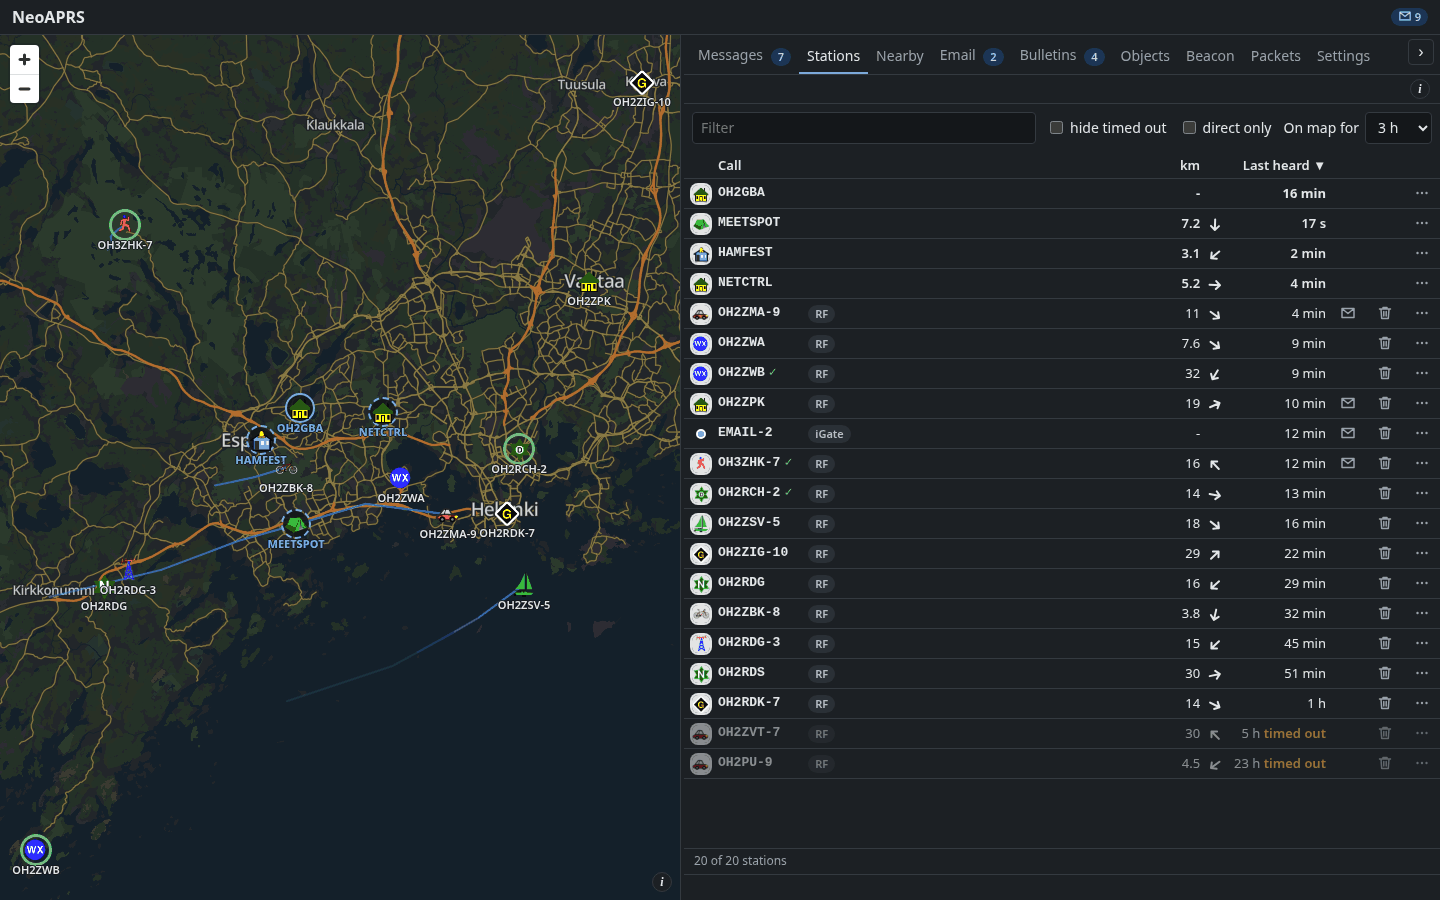
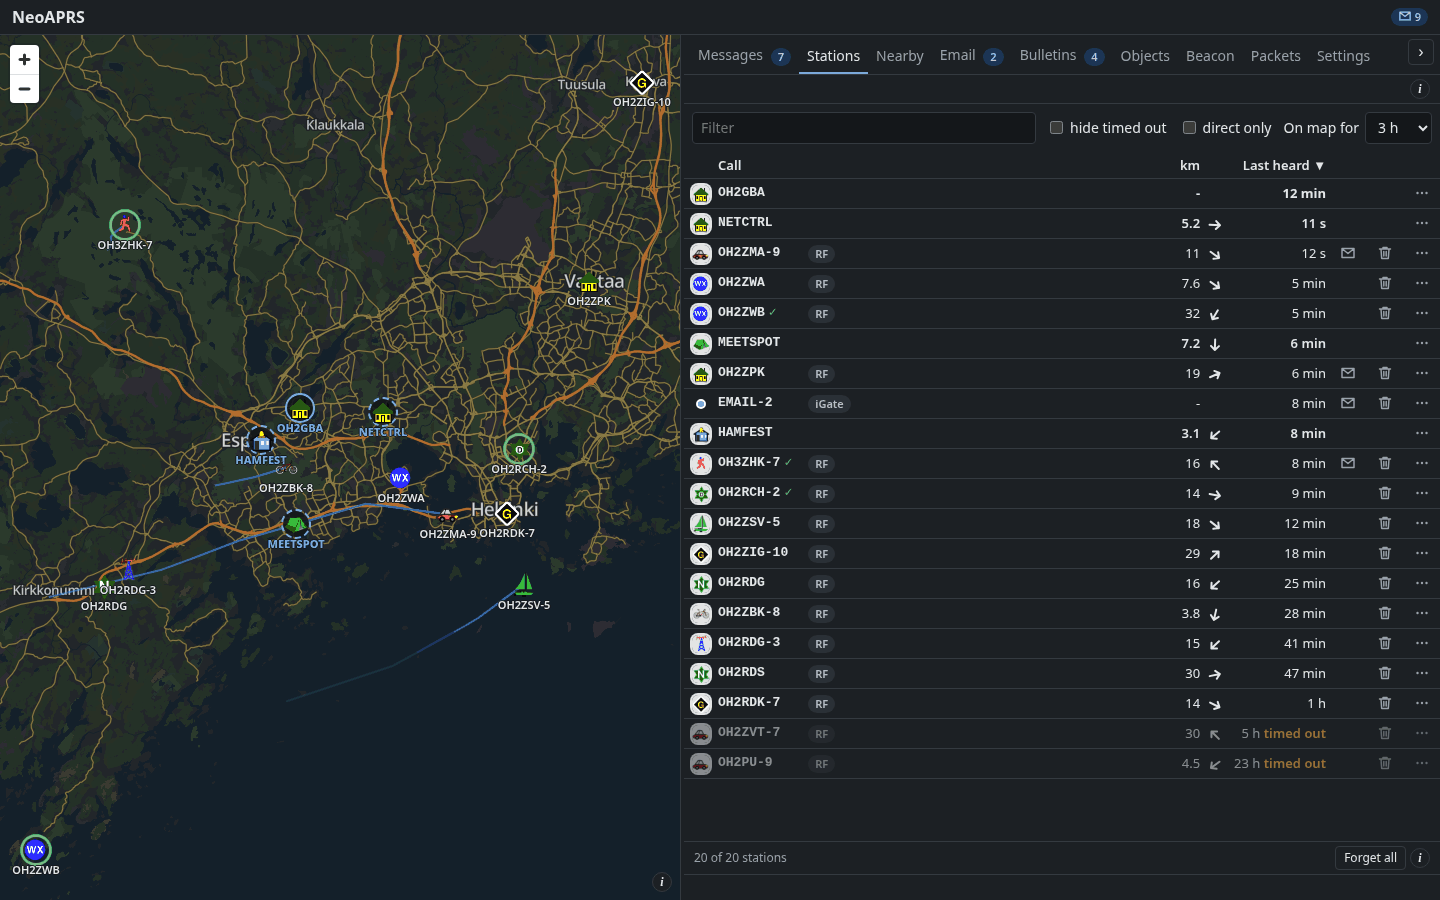
Forget all: the count has its own span, the foot wraps on a phone, the French sentences have their no-break spaces, and the screenshots with the Stations tab are retaken

diff --git a/ui/src/components/StationsTable.test.ts b/ui/src/components/StationsTable.test.ts
@@ -160,7 +160,7 @@ describe("StationsTable", () => {
       expect(toggle?.element.parentElement?.textContent).toContain("hide timed out");
       await toggle?.setValue(true);
       expect(calls(wrapper)).toEqual(["OH2GBA", "OH2FRESH"]);
-      expect(wrapper.find(".foot").text()).toBe("2 of 3 stations");
+      expect(wrapper.find(".foot .footcount").text()).toBe("2 of 3 stations");
       expect(localStorage.getItem("NeoAPRS.hidetimedout")).toBe("on");
       expect(make(null, aging, old).findAll("tbody tr")).toHaveLength(2);
       await toggle?.setValue(false);
@@ -185,7 +185,7 @@ describe("StationsTable", () => {
       expect(toggle?.element.parentElement?.textContent).toContain("direct only");
       await toggle?.setValue(true);
       expect(calls(wrapper)).toEqual(["OH2GBA", "OH2NEAR", "OH2ONCE"]);
-      expect(wrapper.find(".foot").text()).toBe("3 of 4 stations");
+      expect(wrapper.find(".foot .footcount").text()).toBe("3 of 4 stations");
       expect(localStorage.getItem("NeoAPRS.directonly")).toBe("on");
       expect(calls(make(null, never, heard))).toEqual(["OH2GBA", "OH2NEAR", "OH2ONCE"]);
       await toggle?.setValue(false);

diff --git a/ui/src/i18n/fr.ts b/ui/src/i18n/fr.ts
@@ -495,8 +495,8 @@ export const fr: Catalogue = {
   "station.table.forget_call": "Oublier {call}",
   "station.table.forget_sure_call": "Vraiment oublier {call} ?",
   "station.table.forget_all": "Tout oublier",
-  "station.table.forget_all_sure": "Vraiment tout oublier ?",
-  "station.table.forget_all_label": "À propos de « Tout oublier »",
+  "station.table.forget_all_sure": "Vraiment tout oublier ?",
+  "station.table.forget_all_label": "À propos de « Tout oublier »",
   "station.table.forget_tip":
     "Supprime toutes les stations entendues et leurs paquets, à zéro. Votre station, objets, bulletins, messages, réglages et cartes restent.",
   "station.table.count": { one: "{shown} sur {n} station", other: "{shown} sur {n} stations" },

diff --git a/ui/src/components/StationsTable.vue b/ui/src/components/StationsTable.vue
@@ -297,7 +297,7 @@ function ariaSort(key: SortKey | null): "ascending" | "descending" | "none" | un
       @forget="forget"
     />
     <div class="foot footbar muted">
-      <span>{{ t("station.table.count", { shown: rows.length, n: stations.size }) }}</span>
+      <span class="footcount">{{ t("station.table.count", { shown: rows.length, n: stations.size }) }}</span>
       <span class="footaction">
         <button type="button" class="btn small forgetall" :class="{ danger: sureAll.armed.value !== null }" :disabled="!anyHeard" @click="forgetAll">
           {{ sureAll.armed.value !== null ? t("station.table.forget_all_sure") : t("station.table.forget_all") }}

diff --git a/ui/src/components/StationsTableChannels.test.ts b/ui/src/components/StationsTableChannels.test.ts
@@ -109,7 +109,7 @@ describe("the tickbox heard on RF only", () => {
     const wrapper = make(me, rf, gated, net, both, object);
     await wrapper.findAll("input[type='checkbox']")[2]?.setValue(true);
     expect(labels(wrapper).map(([call]) => call)).toEqual(["OH2GBA", "OH2BOTH", "OH2RF", "OH2GATED", "LEADER"]);
-    expect(wrapper.find(".foot").text()).toBe("5 of 6 stations");
+    expect(wrapper.find(".foot .footcount").text()).toBe("5 of 6 stations");
     await wrapper.findAll("input[type='checkbox']")[2]?.setValue(false);
     expect(labels(wrapper)).toHaveLength(6);
   });

diff --git a/ui/src/components/StationsTableForgetAll.test.ts b/ui/src/components/StationsTableForgetAll.test.ts
@@ -56,6 +56,6 @@ describe("Forget all at the foot of the Stations table", () => {
     const { wrapper, button } = make();
     expect(button().classes()).toEqual(expect.arrayContaining(["btn", "small"]));
     expect(button().attributes("style")).toBeUndefined();
-    expect(wrapper.find(".foot").text()).toContain("of 3 stations");
+    expect(wrapper.find(".foot .footcount").text()).toContain("of 3 stations");
   });
 });

diff --git a/ui/src/styles/tables.css b/ui/src/styles/tables.css
@@ -14,9 +14,10 @@
 /* the foot of the Stations tab: the count, and Forget all with its (i) at the other end */
 .footbar {
   display: flex;
+  flex-wrap: wrap;
   align-items: center;
   justify-content: space-between;
-  gap: 8px;
+  gap: 4px 8px;
 }
 .footaction {
   display: inline-flex;
